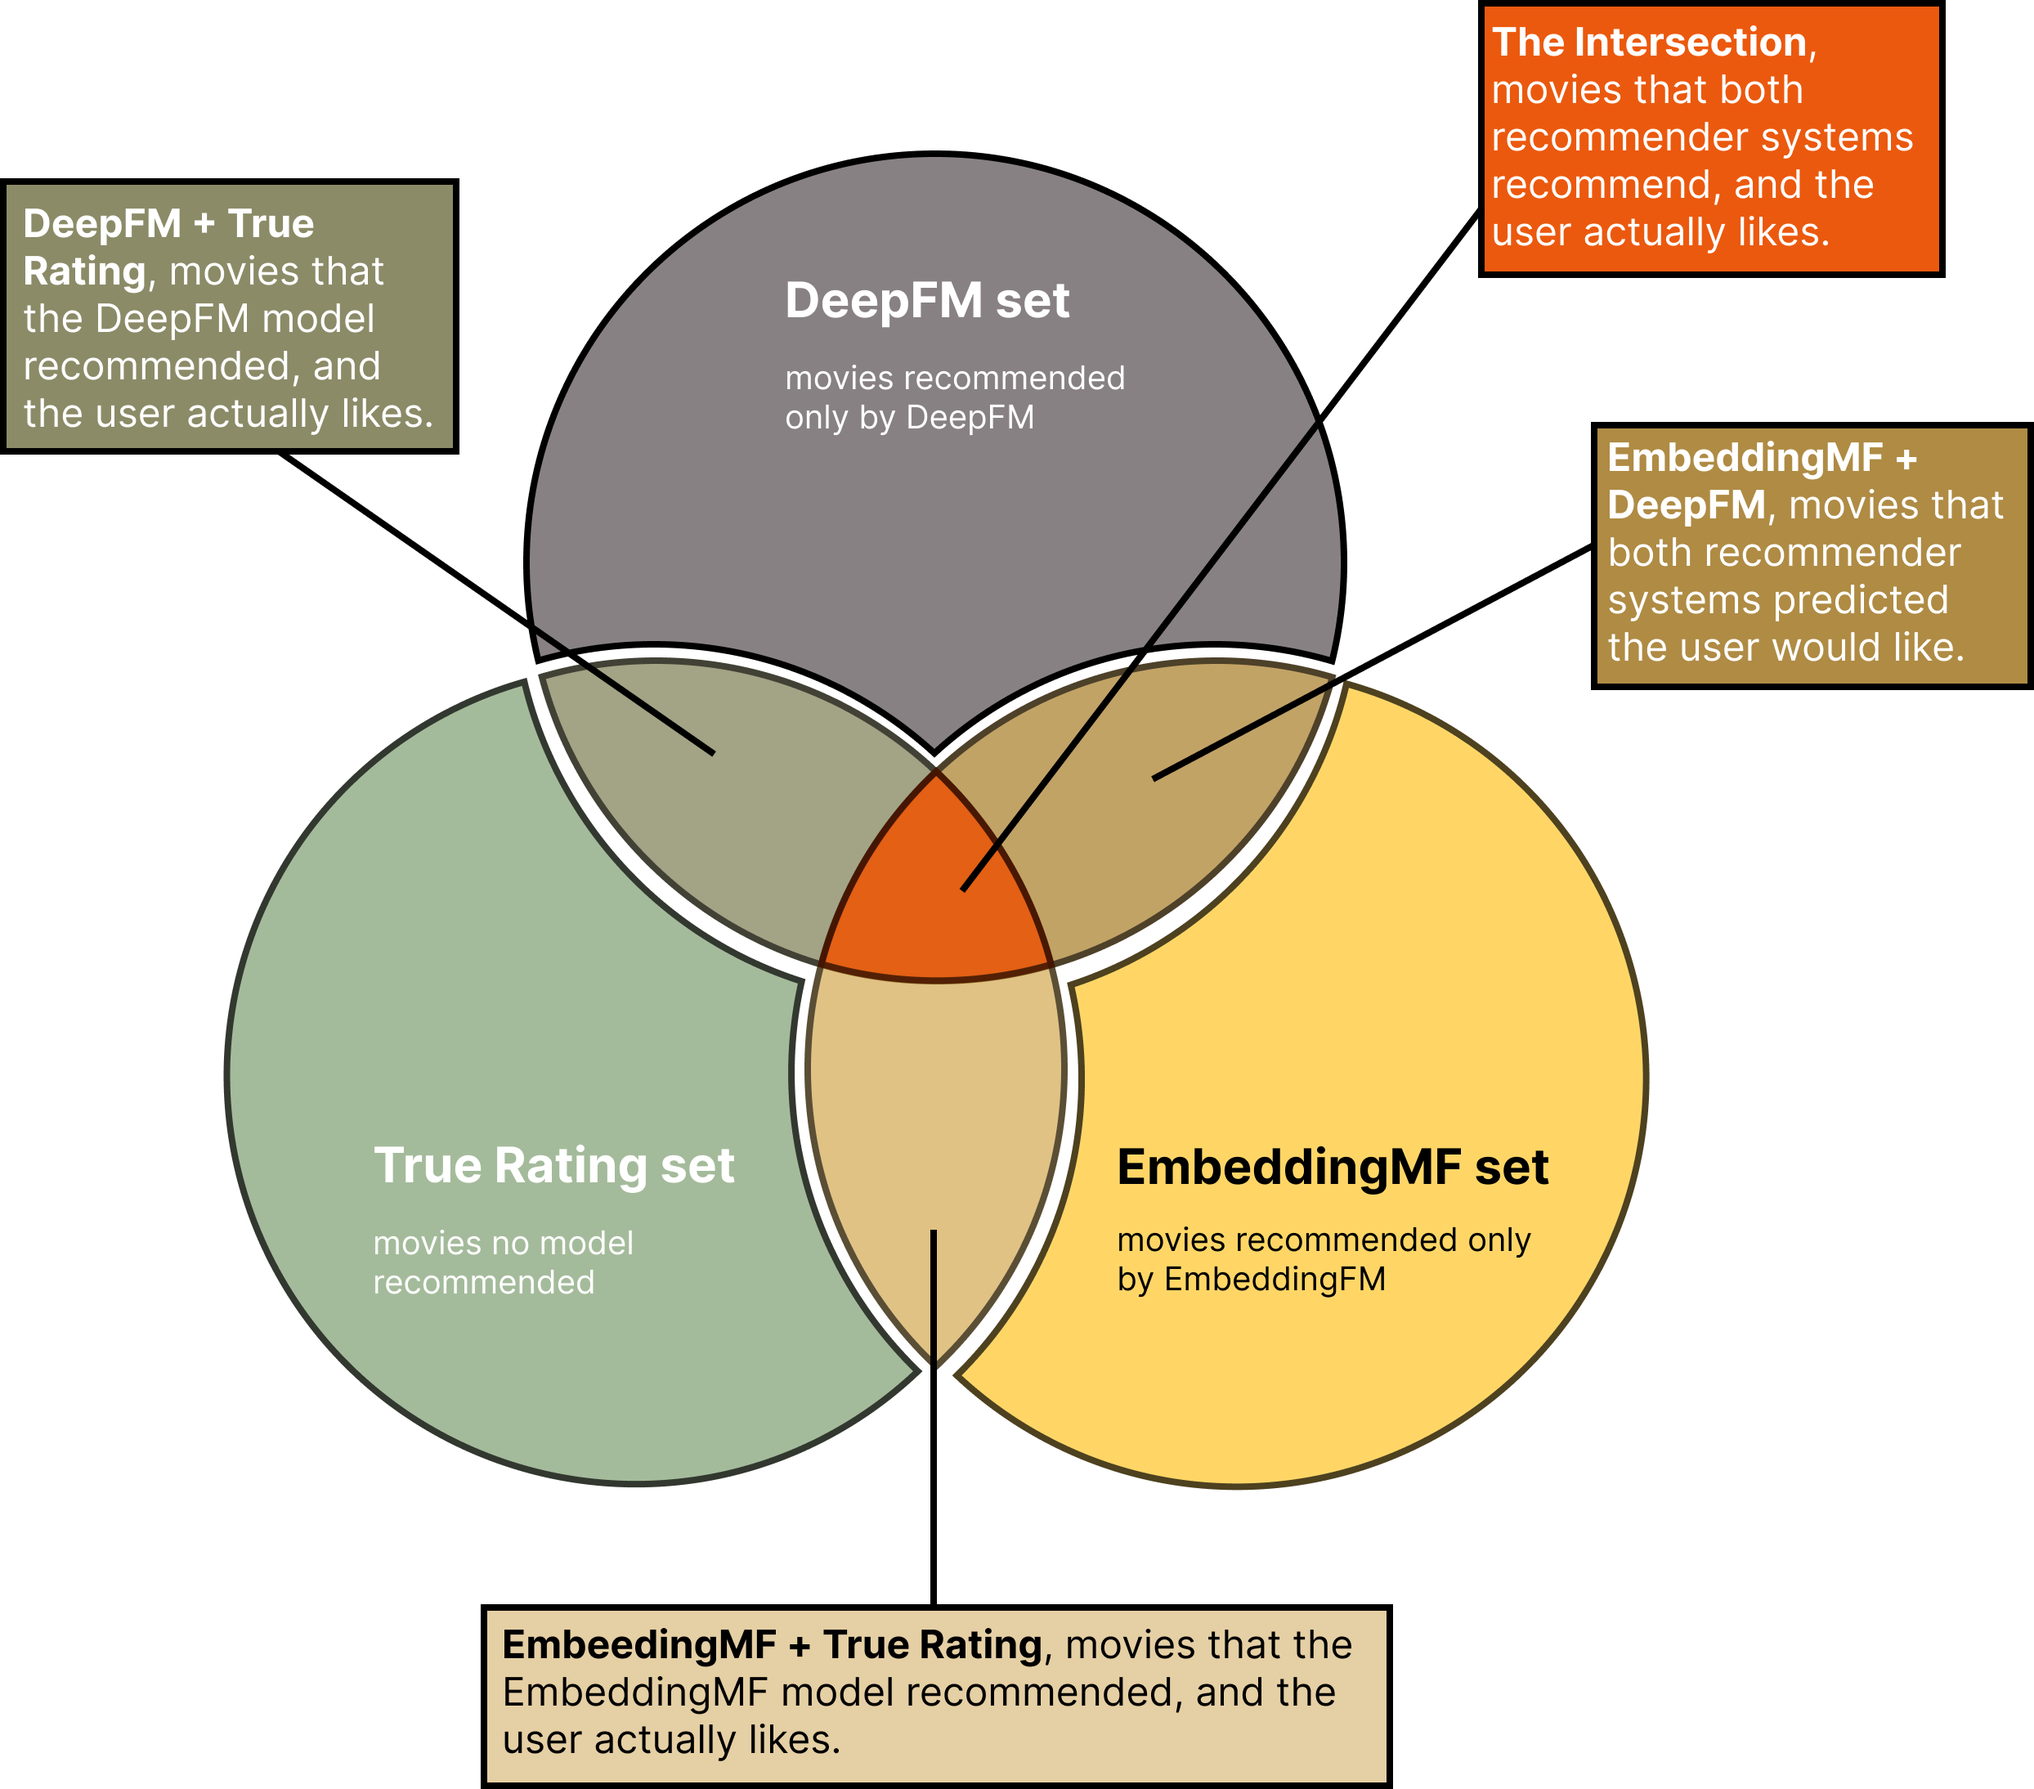
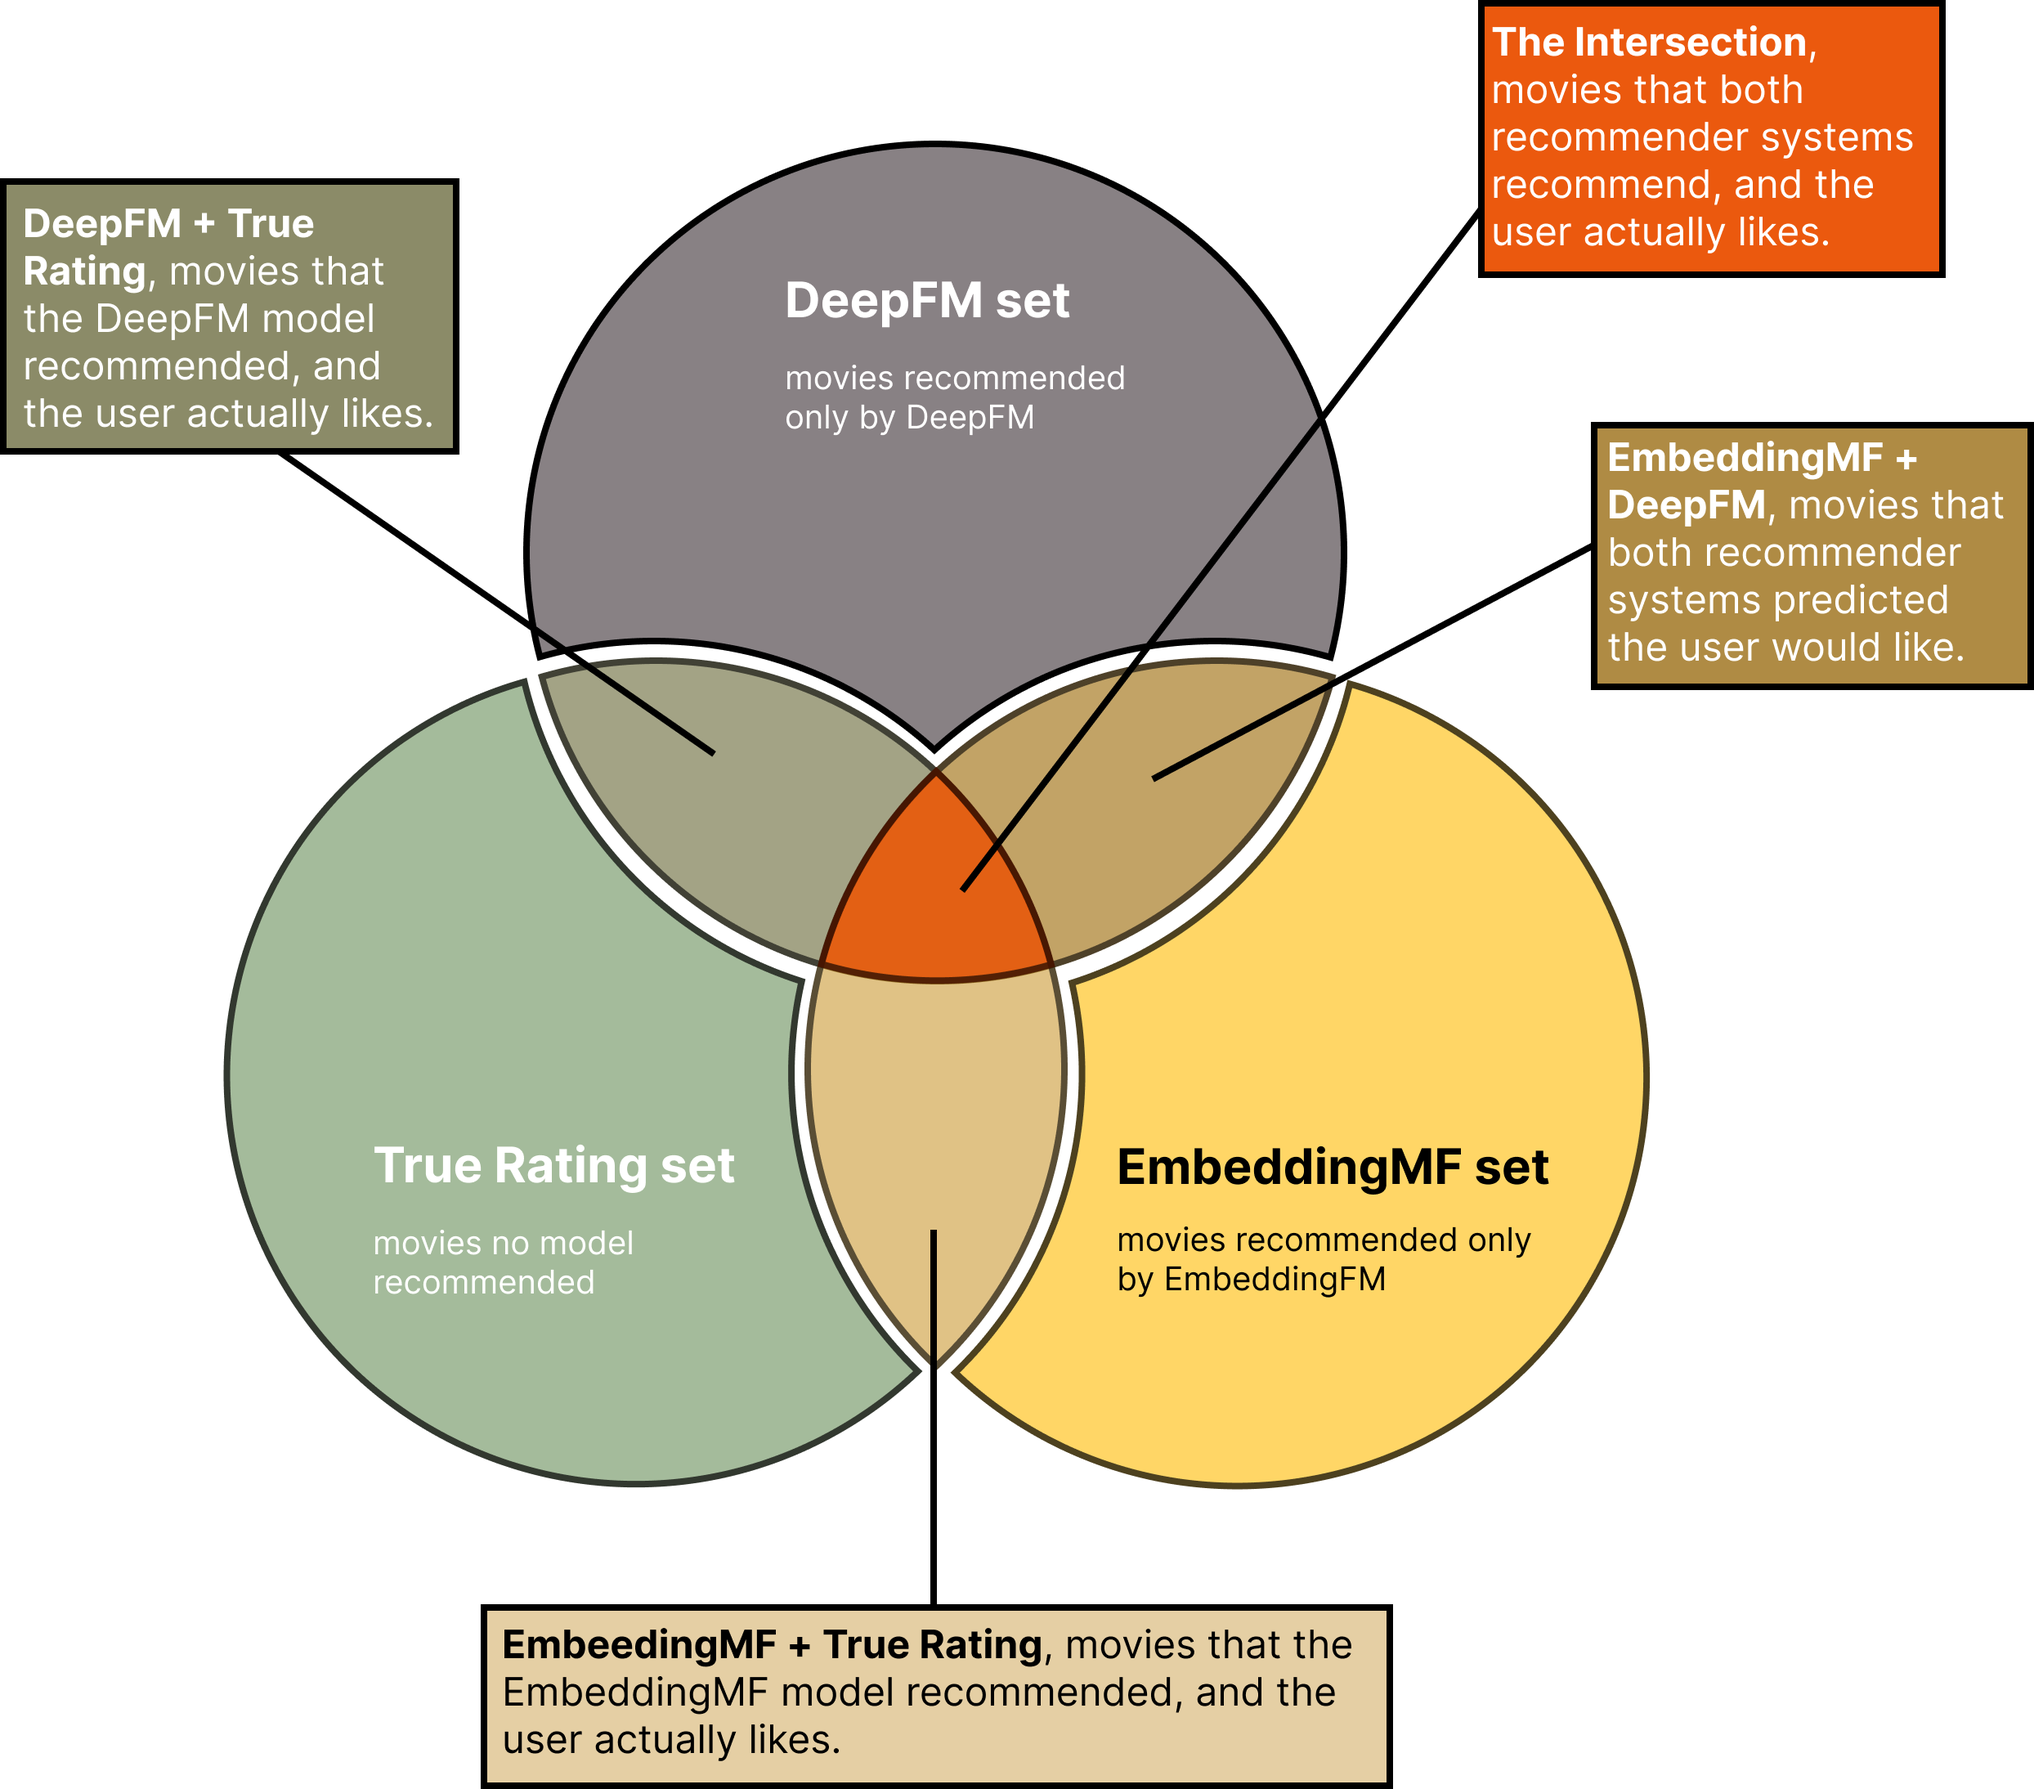
add image and fix some typos

diff --git a/index.html b/index.html
@@ -594,7 +594,15 @@
             </p>
             <p>
                 We will use the <i><q>EmbeddingMF</q></i> approach, which includes a bias term on top of our existing
-                dot product. We start by creating two embedding matrices:
+                dot product.
+            </p>
+            <div class="row">
+                <img src="ebeddingMF-figure.png" width="600px">
+            </div>
+            <figcaption class="centered">TODO</figcaption>
+            <p></p>
+            <p>
+                We start by creating two embedding matrices:
             <ol>
                 <li>
                     A user embedding matrix <i>U</i>, containing one user per row, and <i>n</i> user features as
@@ -609,6 +617,7 @@
                     <i>For a set of 100 movies and 200 features, M will have dimensions of (100, 200)</i>
                 </li>
             </ol>
+            </p>
 
             <p>
                 Having the same number of columns in each matrix allows us to multiply the two embedding matrices
@@ -690,7 +699,6 @@
                     <blockquote><q>All models are wrong, but some are useful.</q> [15] </br>
                         <h6>- George Box, 1976</h6>
                     </blockquote>
-
                 </h3>
             </div>
 
